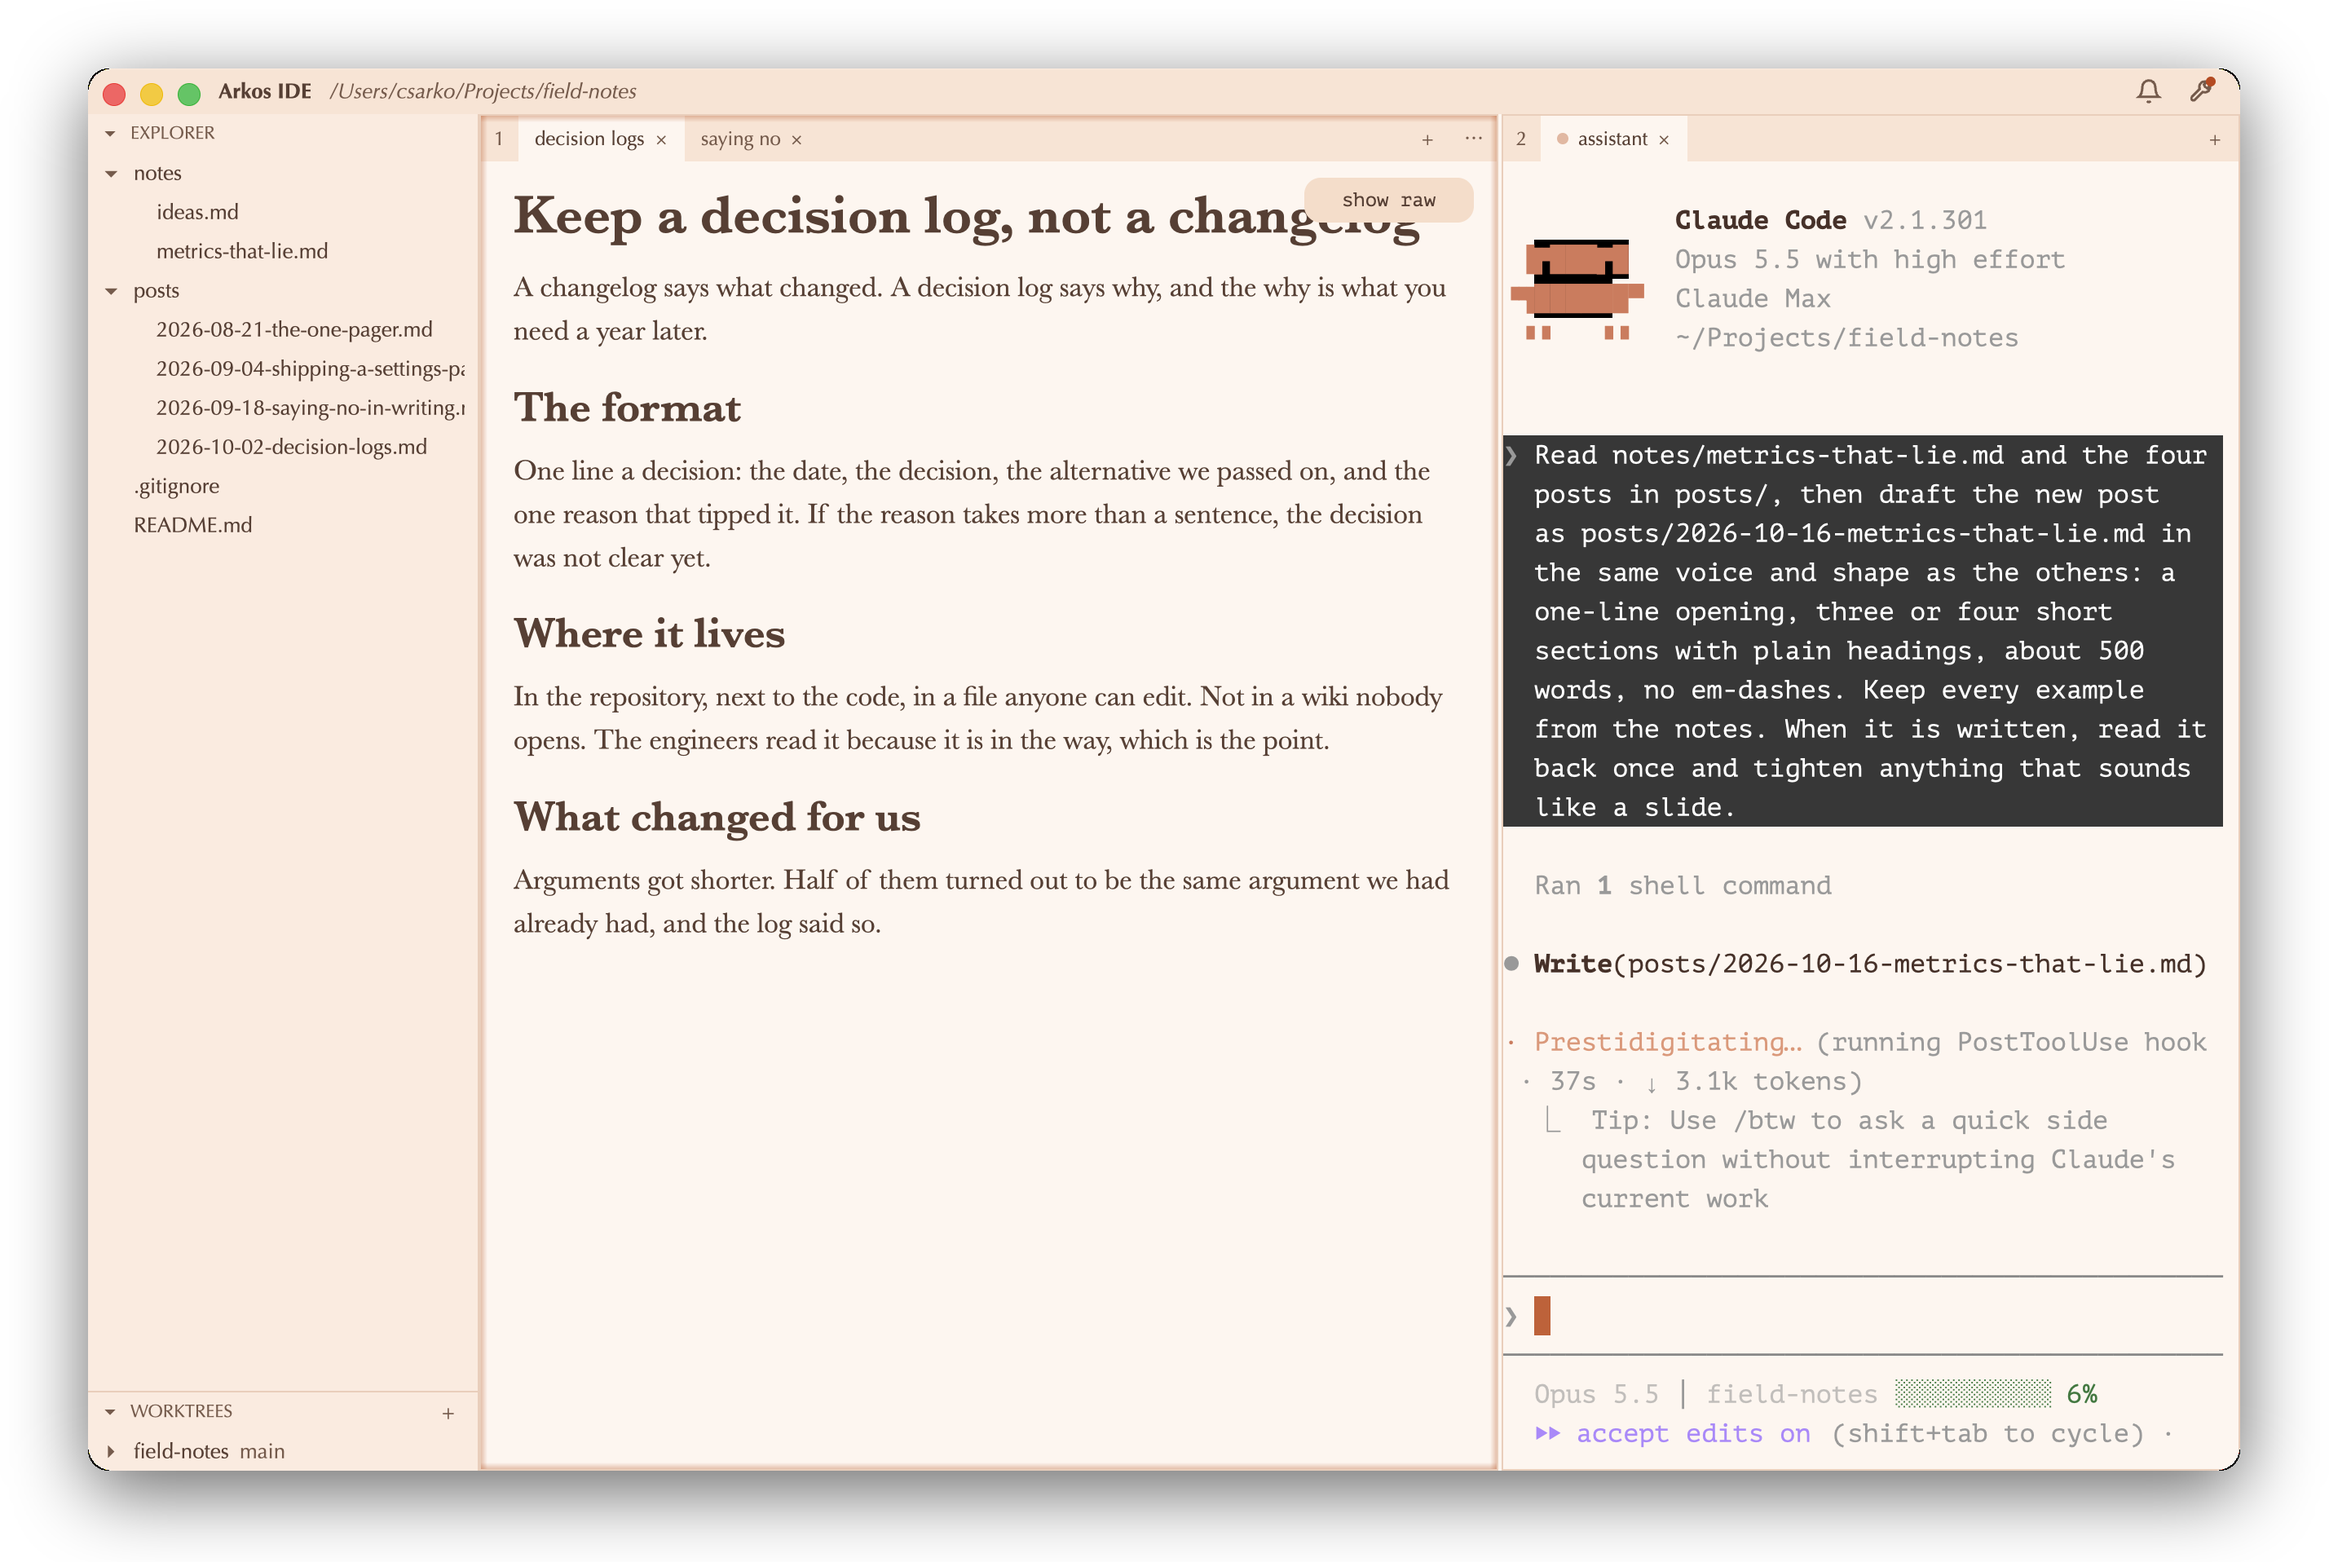
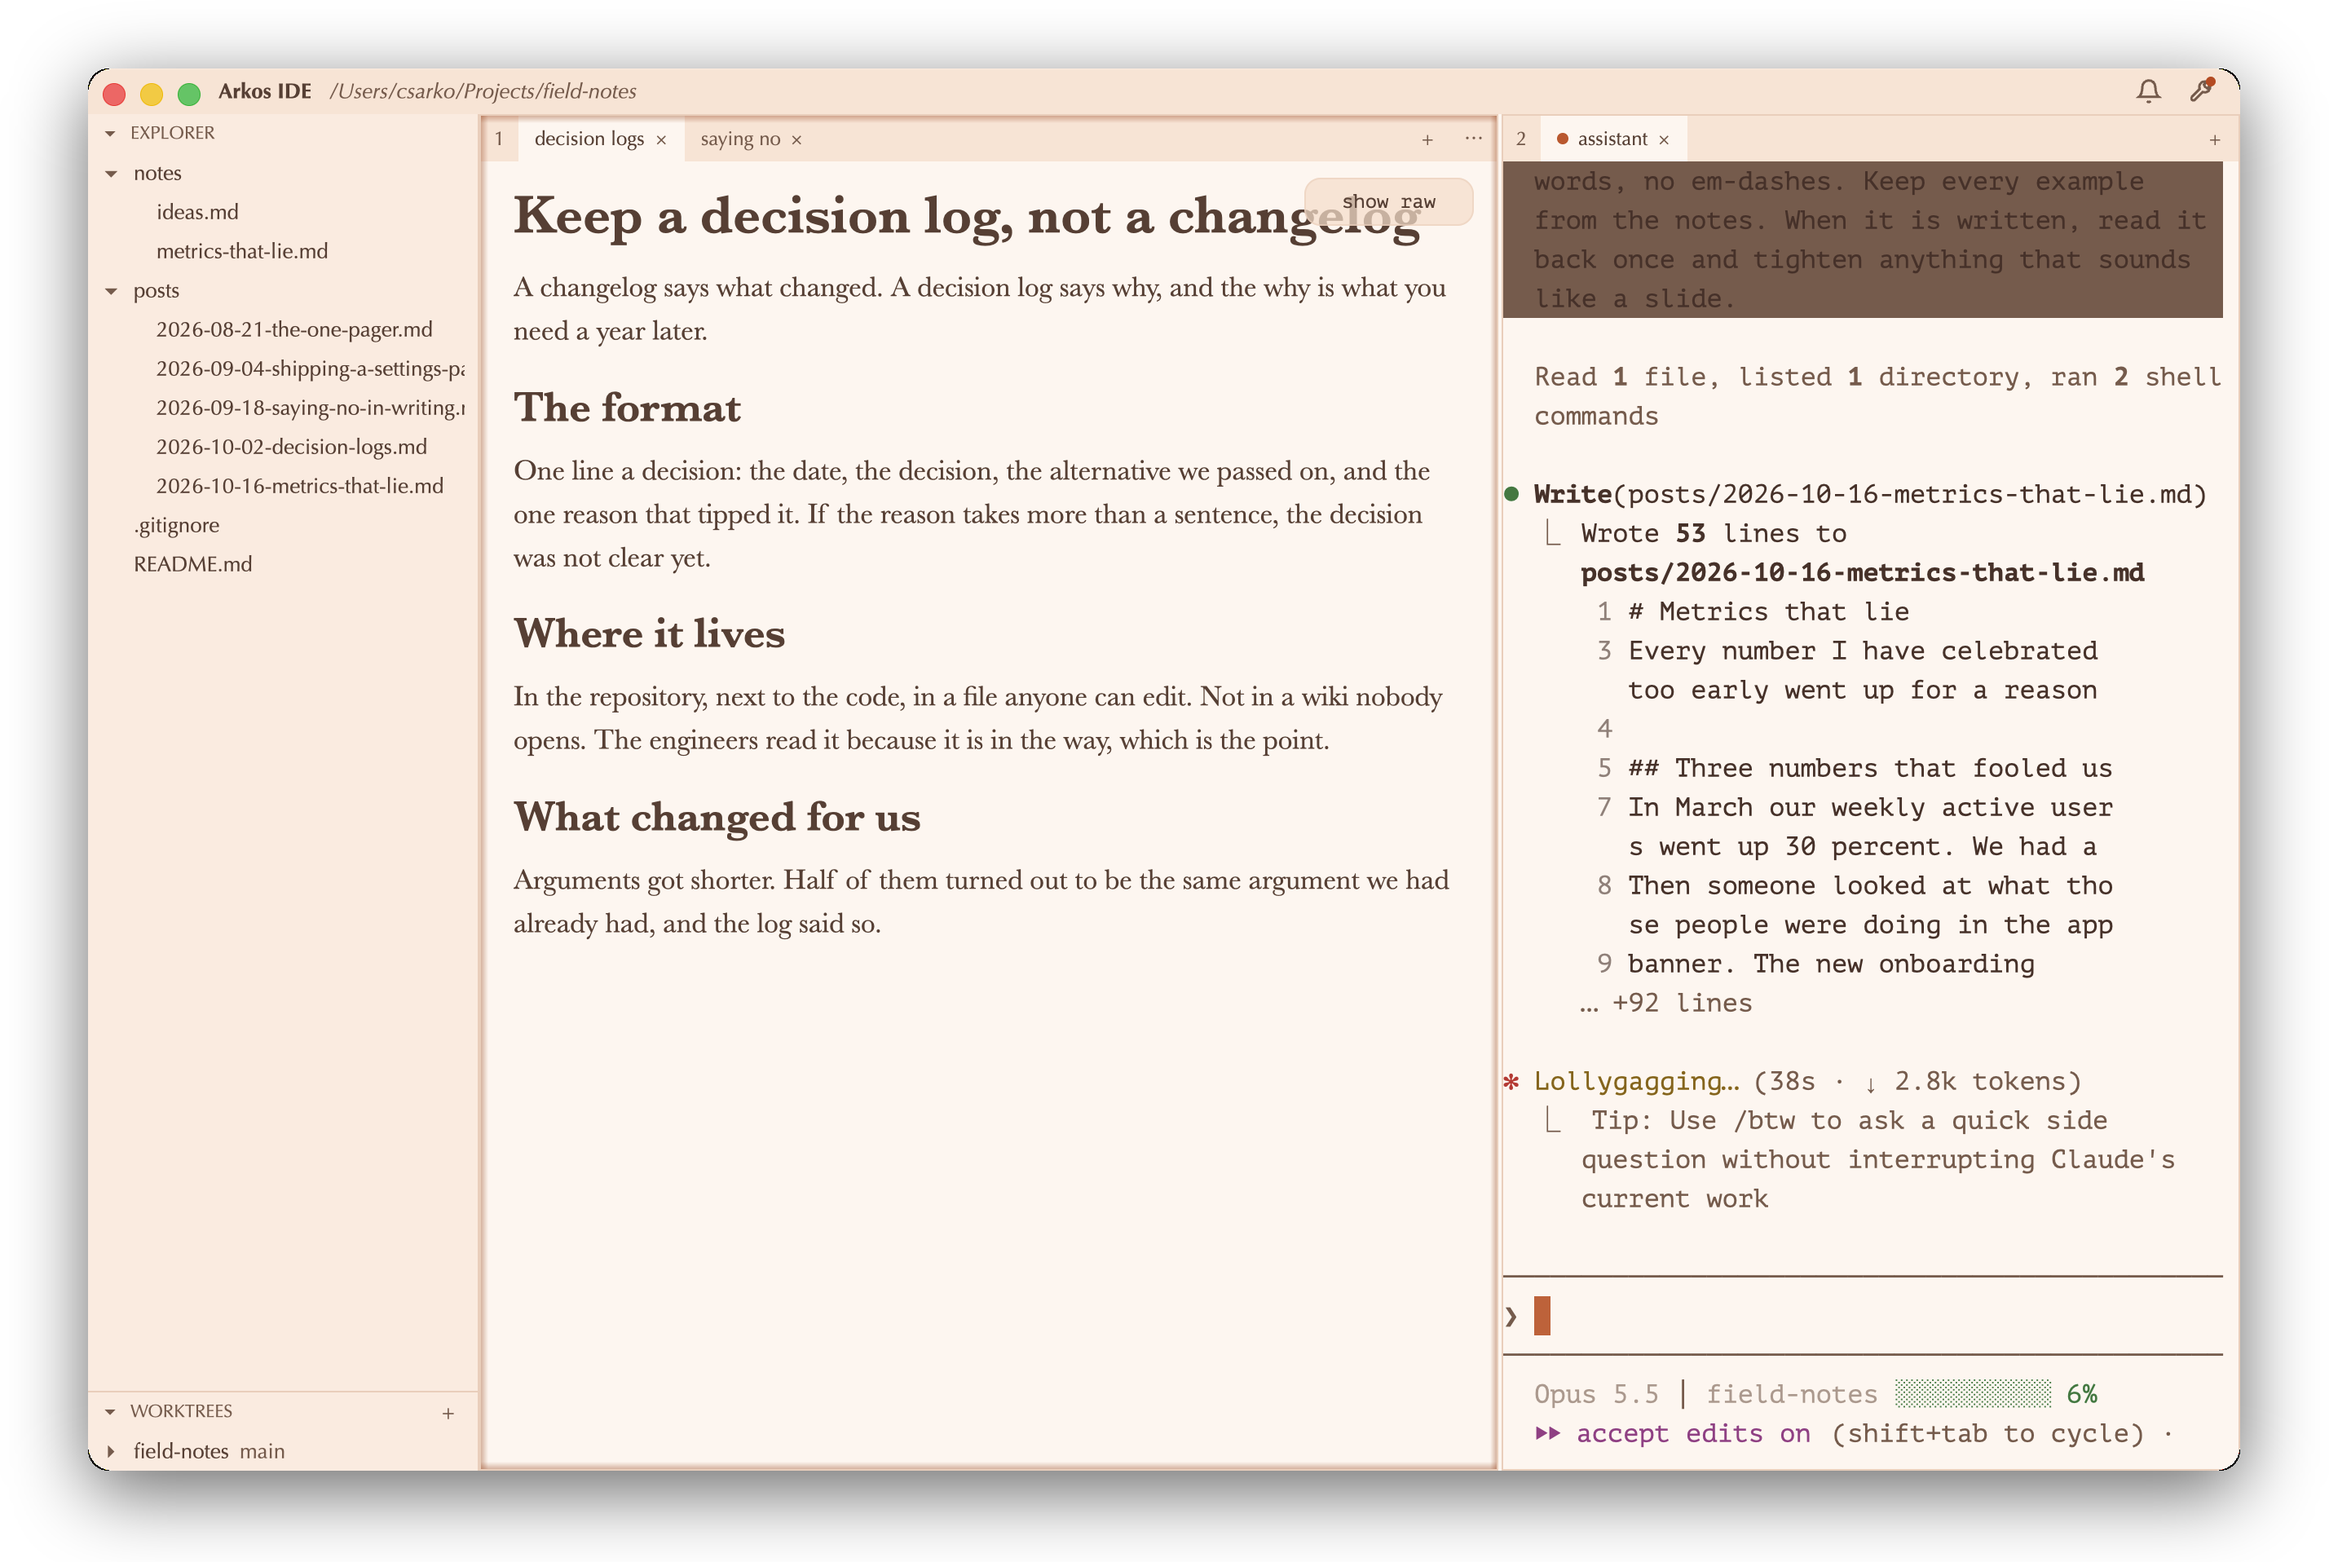
The blogger's and web developer's pictures in their themes; Claude Code in ANSI colours
Each scene's demo sets Claude Code's theme (light-ansi, dark-ansi), so its
code, prompts and diffs are drawn in the terminal's sixteen colours, which
the Arkos theme sets to read on its background; a storyboard names it
(window.claude_theme).

diff --git a/crates/shoot/src/main.rs b/crates/shoot/src/main.rs
@@ -764,7 +764,7 @@ fn prepare_demo(fixture: &Path, demo: &Path, story: &Story, arkos_exe: &Path) ->
     }
     // Claude Code reads .claude/settings.json in the folder it runs in: every pane's folder
     // gets one (the worktree's is its own; a worktree's checkout does not carry the main one's).
-    let settings = claude_settings(arkos_exe);
+    let settings = claude_settings(arkos_exe, &story.window.claude_theme);
     let mut dirs: Vec<PathBuf> = story.panes.iter().filter(|p| p.is_terminal()).map(|p| p.dir(demo)).collect();
     dirs.push(demo.to_path_buf());
     dirs.sort();
@@ -781,11 +781,13 @@ fn first_heading(readme: &Path) -> Option<String> {
     std::fs::read_to_string(readme).ok()?.lines().find_map(|l| l.strip_prefix("# ").map(|t| t.trim().to_string()))
 }
 
-/// The hooks `arkos hooks install` writes (hook_cli.rs), for the dev binary, and permissions.
-fn claude_settings(arkos_exe: &Path) -> serde_json::Value {
+/// The hooks `arkos hooks install` writes (hook_cli.rs), for the dev binary, the permissions a
+/// session needs to work without asking, and Claude Code's theme for the scene.
+fn claude_settings(arkos_exe: &Path, claude_theme: &str) -> serde_json::Value {
     let exe = arkos_exe.display().to_string().replace('\'', "'\\''");
     let cmd = |tail: &str| serde_json::json!({ "type": "command", "command": format!("'{exe}' notify {tail}"), "timeout": 5 });
     serde_json::json!({
+        "theme": claude_theme,
         "permissions": {
             // Every shell command: a pattern list still stops at one with a variable in it, and
             // a session stopped at a permission question is not working. The demo is a copy.

diff --git a/crates/shoot/src/story.rs b/crates/shoot/src/story.rs
@@ -78,6 +78,15 @@ pub struct WindowSpec {
     /// shows one look names it for both.
     #[serde(default)]
     pub theme: ThemePair,
+    /// Claude Code's own theme in the demo's sessions (its `theme` setting): `light-ansi` or
+    /// `dark-ansi` draw it in the terminal's sixteen colours, which Arkos's themes set, so its
+    /// code and prompts read on the scene's background. `auto` lets it detect the background.
+    #[serde(default = "default_claude_theme")]
+    pub claude_theme: String,
+}
+
+fn default_claude_theme() -> String {
+    "auto".into()
 }
 
 #[derive(Debug, Clone, Deserialize)]
@@ -217,6 +226,9 @@ impl Story {
 
     fn check(&self) -> Result<()> {
         let mut seen = std::collections::BTreeSet::new();
+        if !["auto", "dark", "light", "dark-ansi", "light-ansi", "dark-daltonized", "light-daltonized"].contains(&self.window.claude_theme.as_str()) {
+            bail!("window.claude_theme must be one of Claude Code's themes (auto, dark, light, dark-ansi, light-ansi, dark-daltonized, light-daltonized)");
+        }
         for p in &self.panes {
             if !seen.insert(p.name.as_str()) {
                 bail!("pane {:?} is listed twice", p.name);
